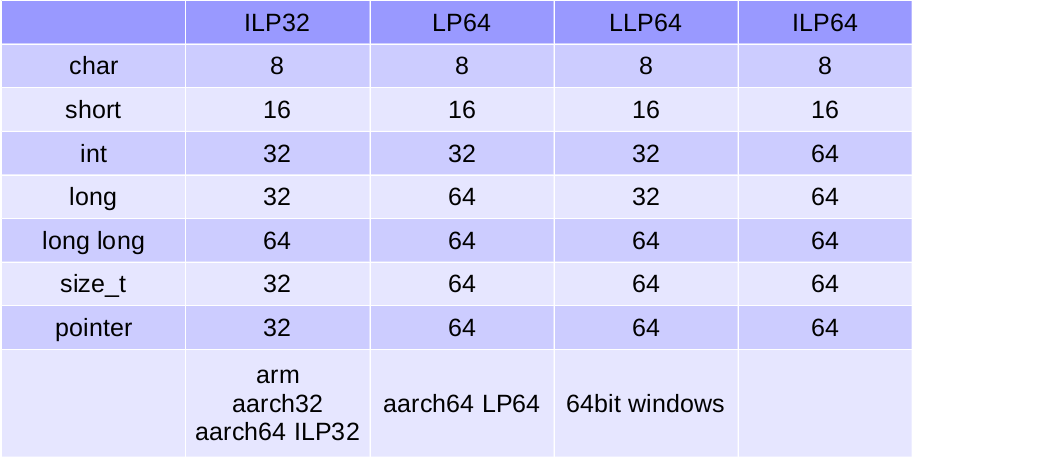
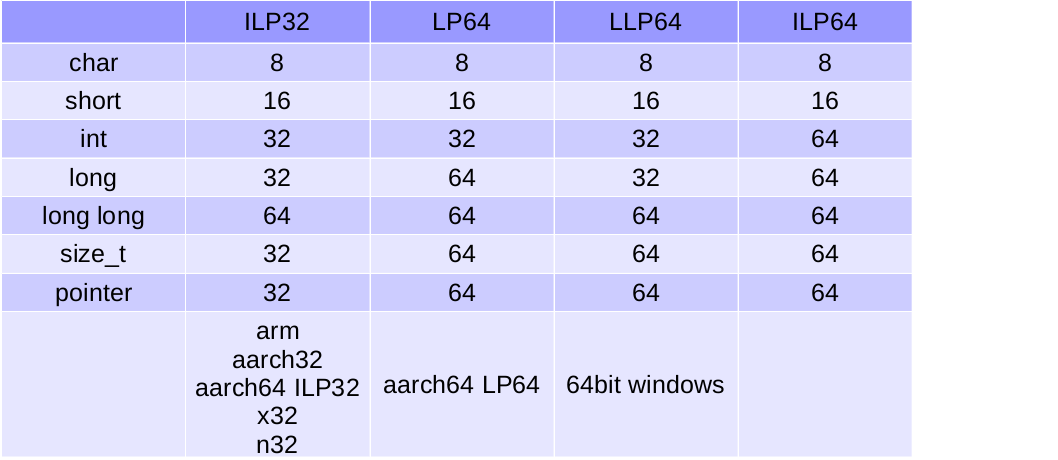
rebase: linuxcon europe: minor update

diff --git a/_drafts/2016/ILP32_syscall_unit_test_linuxcon_europe.md b/_drafts/2016/ILP32_syscall_unit_test_linuxcon_europe.md
@@ -60,6 +60,7 @@ Such as time_t, off_t(file relative types) and so on
 *   time_t and off_t are 32-bit
 
 ### Version B
+Similar to x32(x86 ILP32)
 *   Most of syscalls are 64-bit syscalls
 *   time_t and off_t are 64-bit
 *   Incompatible with arm32 compat-ioctl
@@ -68,7 +69,6 @@ Glibc community think that time_t must be 32-bit. 32-bit time_t lead to incompat
 
 ### Version C
 Come back to version A
-
 *   Most of syscalls are compat syscalls
 *   time_t and off_t are 32-bit
 *   Pass 64-bit variable through one 64-bit reg
@@ -80,8 +80,7 @@ It is hard to maintain the code of glibc because of the arguments passing and de
 *   Most of syscalls are compat syscalls
 *   Pass 64-bit variable through two 32-bit regs
 *   Clear the top-halves of of all the 64-bit regs of a syscall when entering kernel
-*   time_t is 32-bit and **off_t is 64-bit**
-<br>(only affect the userspace interface!)</br>
+*   time_t is 32-bit and **off_t is 64-bit**(only affect the userspace interface!)
 ???
 Current version. Glibc community is re-organzie the code for a generic new api
 
